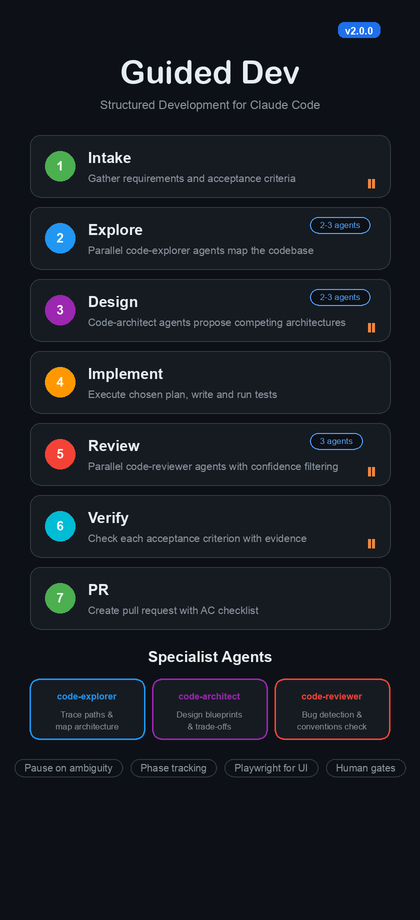
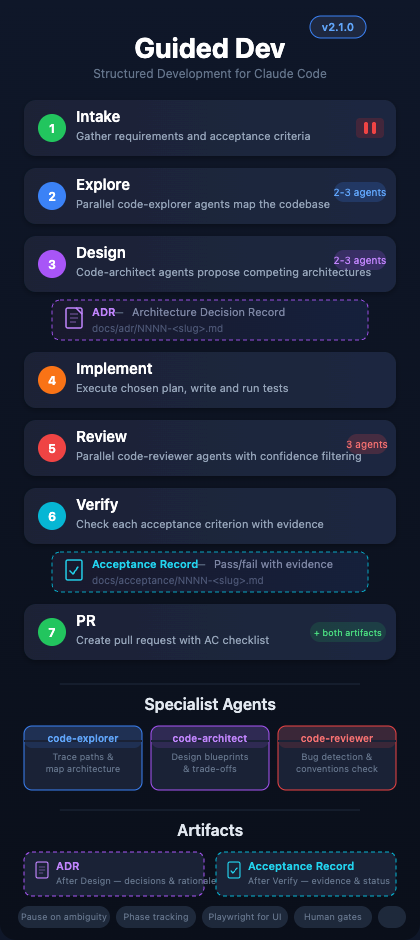
updated infographic

diff --git a/README.md b/README.md
@@ -14,7 +14,7 @@ A curated marketplace of [Claude Code](https://docs.anthropic.com/en/docs/claude
 
 | Plugin | Description | Commands | Version |
 |--------|-------------|----------|---------|
-| [guided-dev](plugins/guided-dev/) | Structured development workflow with intake, clarification, planning, implementation, verification, and PR creation | `/guided-dev` | 2.0.0 |
+| [guided-dev](plugins/guided-dev/) | Structured development workflow with intake, clarification, planning, implementation, verification, and PR creation | `/guided-dev` | 2.1.0 |
 
 > More plugins coming soon. [Submit yours!](CONTRIBUTING.md)
 
